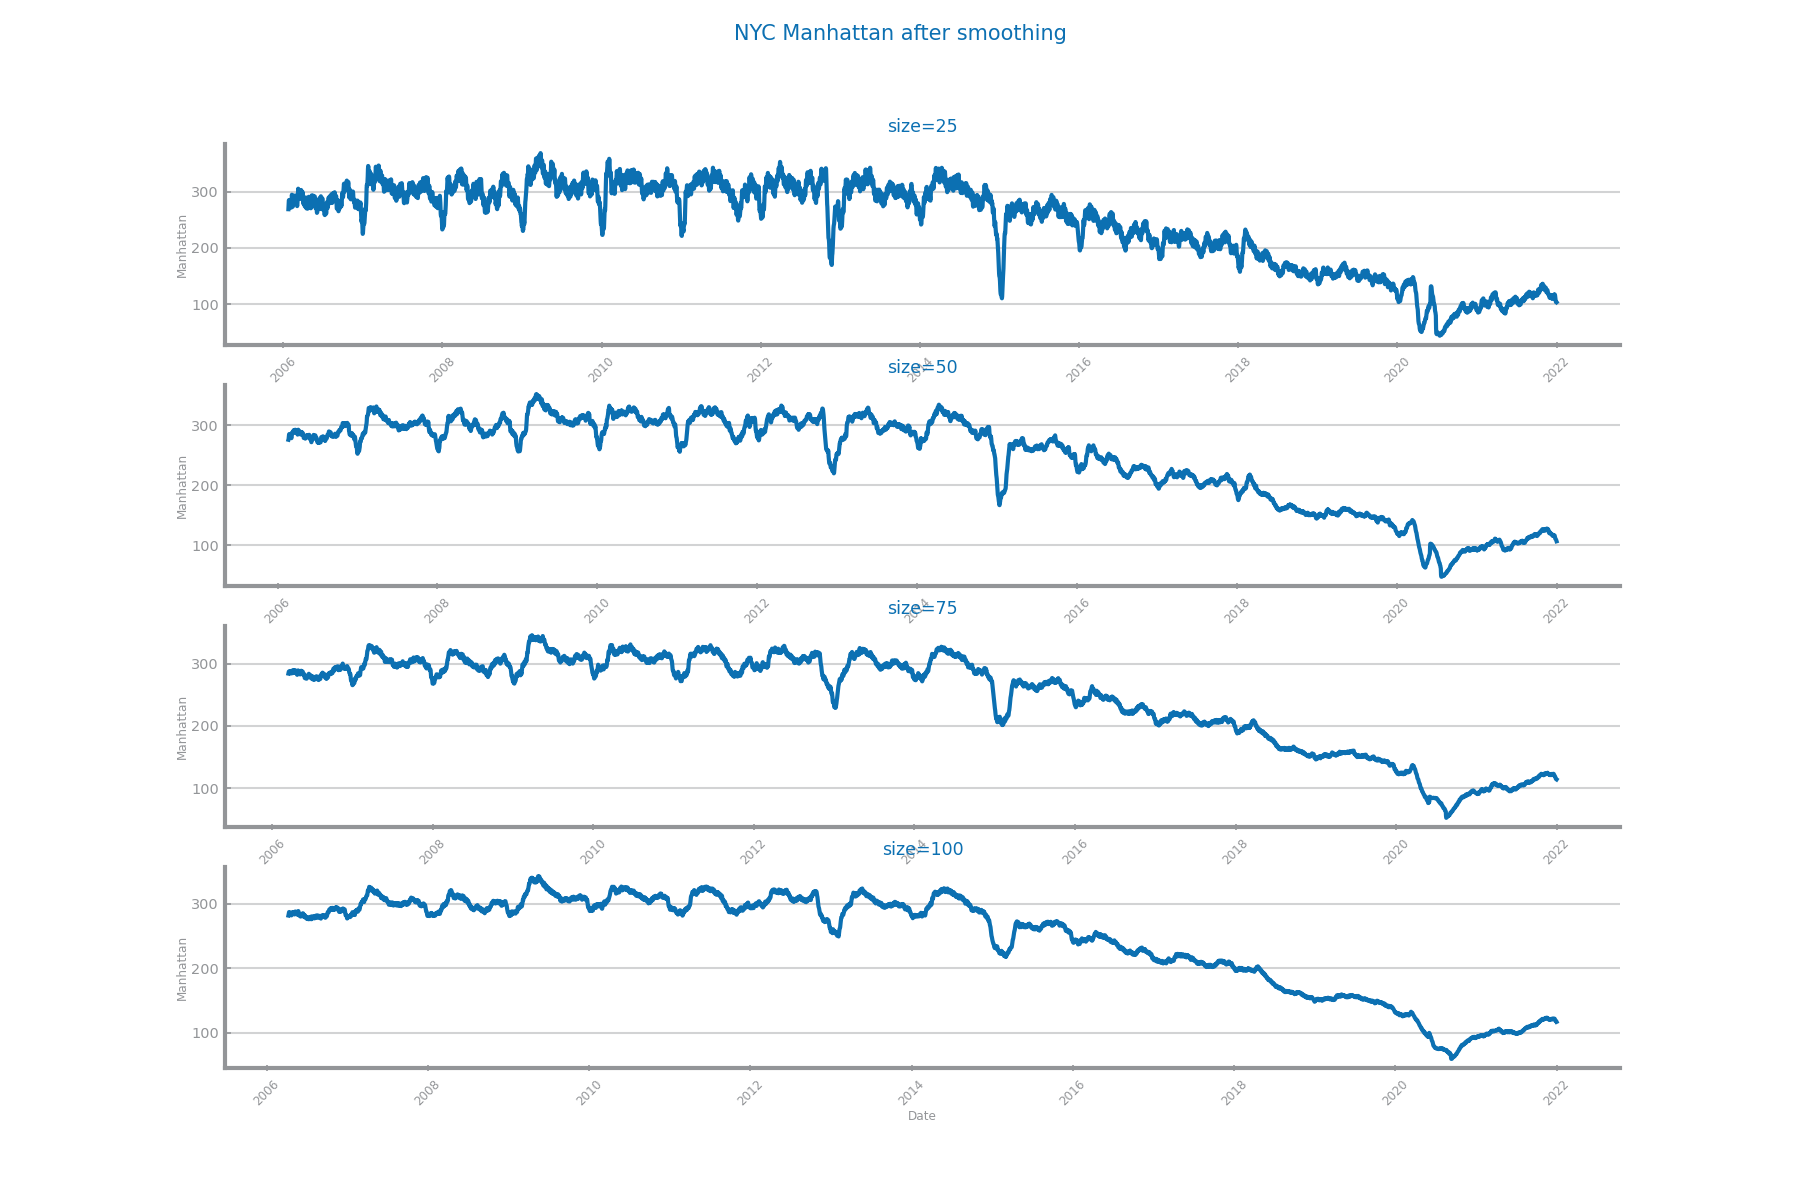
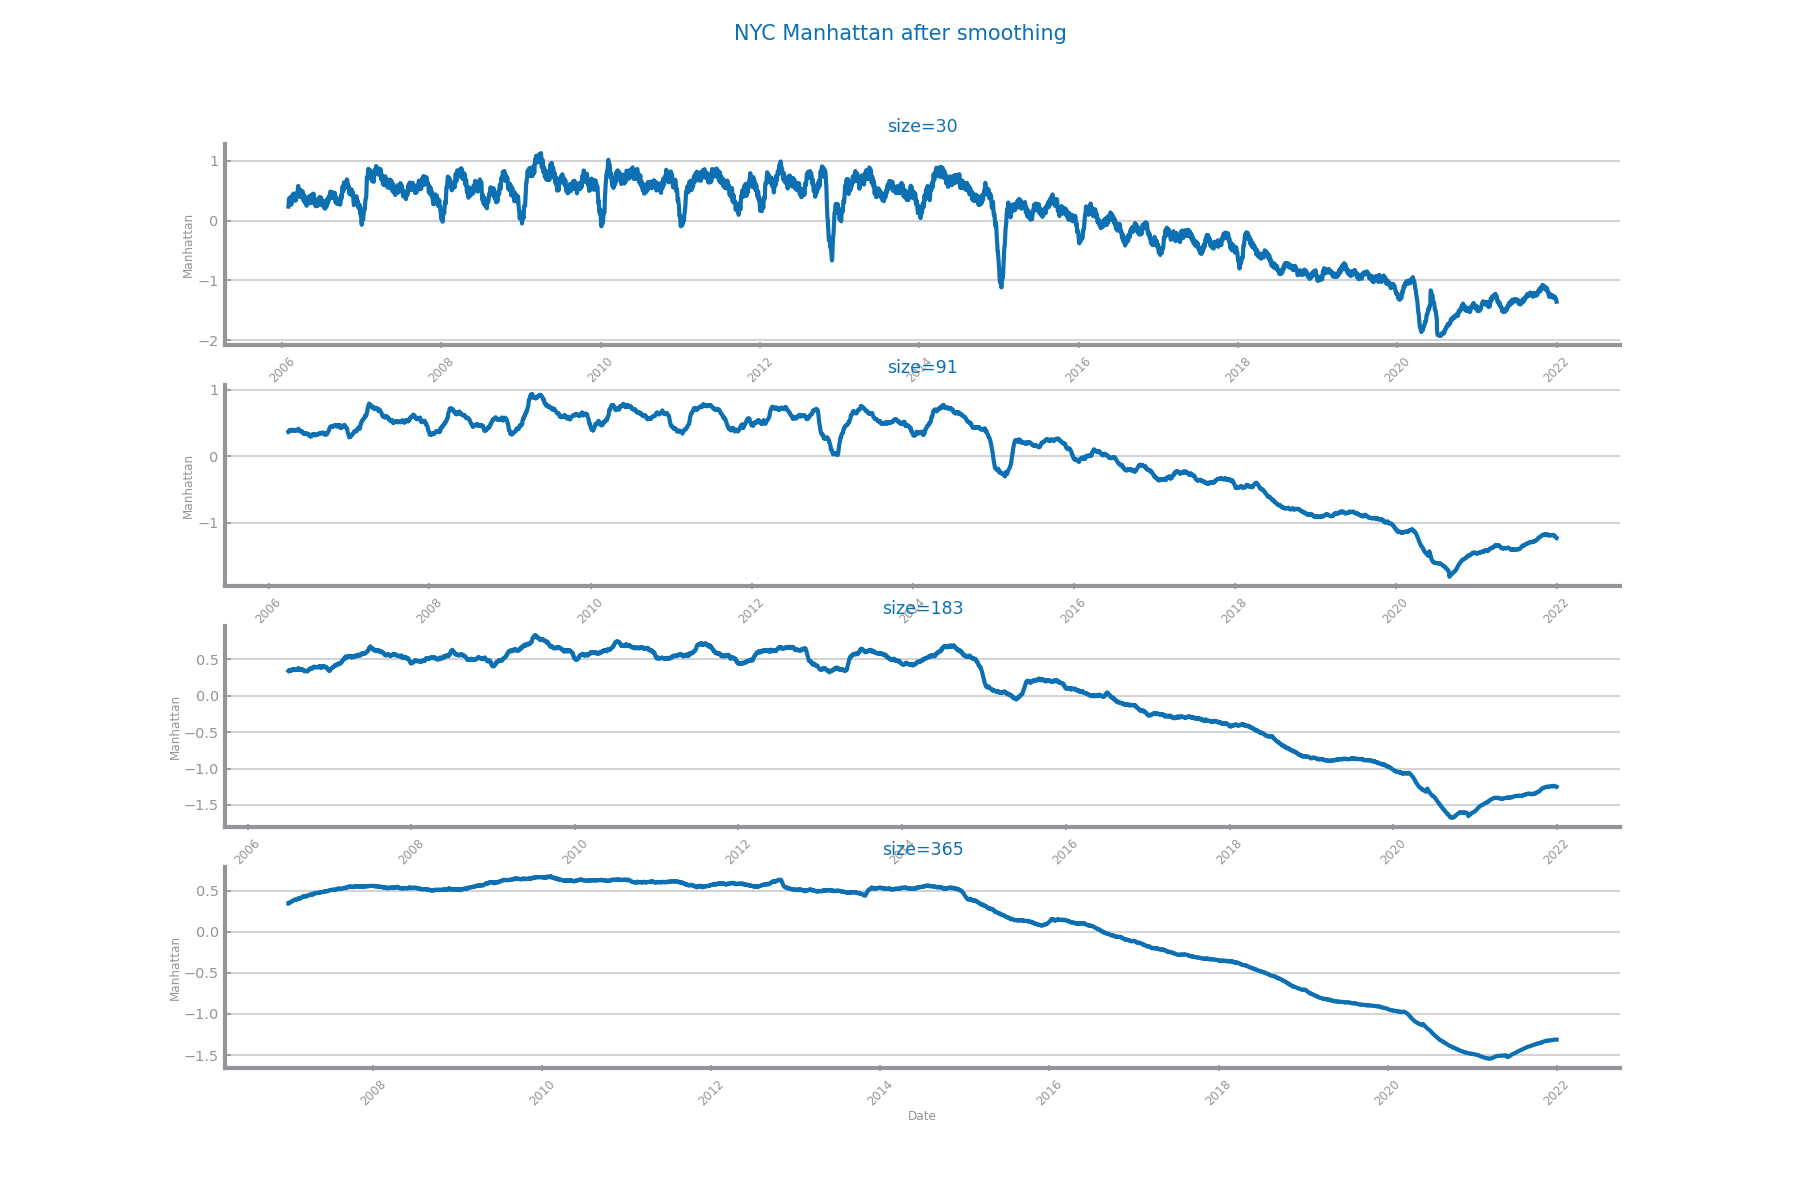
corrected stuff on forecasting transformation dataset 1

diff --git a/Forecasting/Transformation/NYC/smoothing.py b/Forecasting/Transformation/NYC/smoothing.py
@@ -8,17 +8,17 @@ from matplotlib.figure import Figure
 file_tag = "NYC"
 target = "Manhattan"
 data: DataFrame = read_csv(
-    "./Data/forecast_ny_arrests.csv",
+    "Data/forecast_ny_arrests_scaled.csv",
     index_col="Date",
-    sep=";",
+    sep=",",
     decimal=".",
     parse_dates=True,
     infer_datetime_format=True,
 )
 series: Series = data[target]
 
-WIN_SIZE = 10
-ss_smooth: Series = series.rolling(window=WIN_SIZE).mean()
+WIN_SIZE = 91
+ss_smooth = series.rolling(window=WIN_SIZE).mean()
 
 figure(figsize=(3 * HEIGHT, HEIGHT / 2))
 plot_line_chart(
@@ -28,22 +28,30 @@ plot_line_chart(
     ylabel=target,
     title=f"{file_tag} {target} after smoothing (size={WIN_SIZE})",
 )
-savefig(f"./Forecasting/Images/Smoothing/{file_tag}_aftersmoothing.png")
+savefig(f"Forecasting/Images/Smoothing/{file_tag}_aftersmoothing.png")
 
-sizes: list[int] = [25, 50, 75, 100]
+sizes: list[int] = [30, 91, 183, 365]
 fig: Figure
 axs: list[Axes]
 fig, axs = subplots(len(sizes), 1, figsize=(3 * HEIGHT, HEIGHT / 2 * len(sizes)))
 fig.suptitle(f"{file_tag} {target} after smoothing")
 
 for i in range(len(sizes)):
-    ss_smooth: Series = series.rolling(window=sizes[i]).mean()
+    ss_smooth = data[target].rolling(window=sizes[i]).mean()
     plot_line_chart(
         ss_smooth.index.to_list(),
-        ss_smooth.to_list(),
+        ss_smooth.to_list(),        
         ax=axs[i],
         xlabel=ss_smooth.index.name,
         ylabel=target,
         title=f"size={sizes[i]}",
     )
-savefig(f"./Forecasting/Images/Smoothing/{file_tag}_smoothingvarioussizes.png")
+savefig(f"Forecasting/Images/Smoothing/{file_tag}_smoothingvarioussizes.png")
+
+data = data.rolling(91).mean()
+df : DataFrame = data
+
+df.dropna(inplace=True)
+
+#save series to csv
+df.to_csv("Data/forecast_ny_arrests_smoothed.csv")

diff --git a/Forecasting/Transformation/NYC/differentiation.py b/Forecasting/Transformation/NYC/differentiation.py
@@ -3,13 +3,13 @@ from matplotlib.pyplot import figure, savefig
 from dslabs_functions import plot_line_chart, HEIGHT
 
 file_tag = "NYC"
-filename = "Data/forecast_ny_arrests.csv"
+filename = "Data/forecast_ny_arrests_aggregated.csv"
 index = "Date"
 target = "Manhattan"
 data: DataFrame = read_csv(
     filename,
     index_col=index,
-    sep=";",
+    sep=",",
     decimal=".",
     parse_dates=True,
     infer_datetime_format=True,
@@ -22,10 +22,10 @@ plot_line_chart(
     series.to_list(),
     xlabel=series.index.name,
     ylabel=target,
-    title=f"{file_tag} hourly {target}",
+    title=f"{file_tag} daily {target}",
 )
 
-savefig(f"Forecasting/Images/Differentiation/{file_tag}_hourly.png")
+savefig(f"Forecasting/Images/Differentiation/{file_tag}_daily.png")
 
 from dslabs_functions import plot_line_chart
 
@@ -53,3 +53,27 @@ diff_df: DataFrame = data.diff()
 plot_ts_multivariate_chart(diff_df, title=f"{file_tag} {target} - after first differentiation")
 
 savefig(f"Forecasting/Images/Differentiation/{file_tag}_after_first_diff.png")
+
+ss_diff2: Series = ss_diff.diff()
+
+figure(figsize=(3 * HEIGHT, HEIGHT))
+plot_line_chart(
+    ss_diff2.index.to_list(),
+    ss_diff2.to_list(),
+    title="Differentiation",
+    xlabel=series.index.name,
+    ylabel=target,
+)
+
+savefig(f"Forecasting/Images/Differentiation/{file_tag}_diff2.png")
+
+plot_ts_multivariate_chart(data, title=f"{file_tag} {target}")
+
+savefig(f"Forecasting/Images/Differentiation/{file_tag}_multivariate2.png")
+
+diff_df: DataFrame = data.diff().diff()
+
+plot_ts_multivariate_chart(diff_df, title=f"{file_tag} {target} - after second differentiation")
+
+savefig(f"Forecasting/Images/Differentiation/{file_tag}_after_second_diff.png")
+

diff --git a/Forecasting/Transformation/NYC/aggregation.py b/Forecasting/Transformation/NYC/aggregation.py
@@ -5,23 +5,15 @@ from dslabs_functions import plot_line_chart, ts_aggregation_by, HEIGHT
 file_tag = "NYC"
 target = "Manhattan"
 data: DataFrame = read_csv(
-    "Data/forecast_ny_arrests.csv",
+    "Data/forecast_ny_arrests_smoothed.csv",
     index_col="Date",
-    sep=";",
+    sep=",",
     decimal=".",
     parse_dates=True,
     infer_datetime_format=True,
 )
 
 series: Series = data[target]
-figure(figsize=(3 * HEIGHT, HEIGHT / 2))
-plot_line_chart(
-    series.index.to_list(),
-    series.to_list(),
-    xlabel=series.index.name,
-    ylabel=target,
-    title=f"{file_tag} hourly {target}",
-)
 figure(figsize=(3 * HEIGHT, HEIGHT / 2))
 ss_agg: Series = ts_aggregation_by(series, gran_level="D", agg_func="sum")
 plot_line_chart(
@@ -32,14 +24,16 @@ plot_line_chart(
     title=f"{file_tag} daily {target}",
 )
 
-savefig(f"Forecasting/Images/Aggregation/{file_tag}_beforescaling.png")
+savefig(f"Forecasting/Images/Aggregation/{file_tag}_before_aggregation.png")
 
 from dslabs_functions import plot_ts_multivariate_chart
 
 plot_ts_multivariate_chart(data, title=f"{file_tag} {target}")
 
-agg_df: DataFrame = ts_aggregation_by(data, gran_level="W", agg_func="mean")
+agg_df: DataFrame = ts_aggregation_by(data, gran_level="M", agg_func="mean")
 
-plot_ts_multivariate_chart(agg_df, title=f"{file_tag} after hourly aggregation {target}")
+plot_ts_multivariate_chart(agg_df, title=f"{file_tag} after monthly aggregation {target}")
 
-savefig(f"Forecasting/Images/Aggregation/{file_tag}_afterscaling.png")
+savefig(f"Forecasting/Images/Aggregation/{file_tag}_after_aggregation.png")
+
+agg_df.to_csv("Data/forecast_ny_arrests_aggregated.csv")

diff --git a/Forecasting/Transformation/NYC/scaling.py b/Forecasting/Transformation/NYC/scaling.py
@@ -1,5 +1,5 @@
 from pandas import read_csv, DataFrame, Series
-from matplotlib.pyplot import figure, show, savefig
+from matplotlib.pyplot import figure, savefig
 from dslabs_functions import plot_line_chart, HEIGHT
 from sklearn.preprocessing import StandardScaler
 
@@ -14,7 +14,7 @@ def scale_all_dataframe(data: DataFrame) -> DataFrame:
 file_tag = "NYC"
 target = "Manhattan"
 data: DataFrame = read_csv(
-    "./Data/forecast_ny_arrests.csv",
+    "Data/forecast_ny_arrests.csv",
     index_col="Date",
     sep=";",
     decimal=".",
@@ -32,11 +32,13 @@ plot_line_chart(
     series.to_list(),
     xlabel=series.index.name,
     ylabel=target,
-    title=f"{file_tag} hourly {target}",
+    title=f"{file_tag} daily {target}",
 )
-savefig(f"./Forecasting/Images/Scaling/{file_tag}_beforescaling.png")
+savefig(f"Forecasting/Images/Scaling/{file_tag}_beforescaling.png")
 
 df: DataFrame = scale_all_dataframe(data)
+
+df.to_csv("Data/forecast_ny_arrests_scaled.csv")
 
 ss: Series = df[target]
 figure(figsize=(3 * HEIGHT, HEIGHT / 2))
@@ -47,4 +49,4 @@ plot_line_chart(
     ylabel=target,
     title=f"{file_tag} {target} after scaling",
 )
-savefig(f"./Forecasting/Images/Scaling/{file_tag}_afterscaling.png")
+savefig(f"Forecasting/Images/Scaling/{file_tag}_afterscaling.png")

diff --git a/Forecasting/Analysis/NYC/granularity.py b/Forecasting/Analysis/NYC/granularity.py
@@ -6,9 +6,10 @@ from matplotlib.axes import Axes
 from matplotlib.figure import Figure
 
 file_tag = "NYC"
+gran = "Y"
 target = "Manhattan"
 data: DataFrame = read_csv(
-    "./forecast_ny_arrests.csv",
+    "Data/forecast_ny_arrests.csv",
     index_col="Date",
     sep=";",
     decimal=".",
@@ -40,7 +41,7 @@ def ts_aggregation_by(
     return df
 
 
-ss_days: Series = ts_aggregation_by(series, "D")
+ss_days: Series = ts_aggregation_by(series, gran)
 figure(figsize=(3 * HEIGHT, HEIGHT / 2))
 plot_line_chart(
     ss_days.index.to_list(),
@@ -49,9 +50,9 @@ plot_line_chart(
     ylabel=target,
     title=f"{file_tag} daily mean {target}",
 )
-savefig(f"./Forecasting/Images/Granularity/{file_tag}_aggregationbyD.png")
+savefig(f"Forecasting/Images/Granularity/{file_tag}_aggregationby{gran}.png")
 
-grans: list[str] = ["D", "W", "M"]
+grans: list[str] = ["D", "M", "Y"]
 fig: Figure
 axs: list[Axes]
 fig, axs = subplots(len(grans), 1, figsize=(3 * HEIGHT, HEIGHT / 2 * len(grans)))
@@ -67,4 +68,4 @@ for i in range(len(grans)):
         ylabel=target,
         title=f"granularity={grans[i]}",
     )
-savefig(f"./Forecasting/Images/Granularity/{file_tag}_multiaggregation.png")
+savefig(f"Forecasting/Images/Granularity/{file_tag}_multiaggregation.png")
